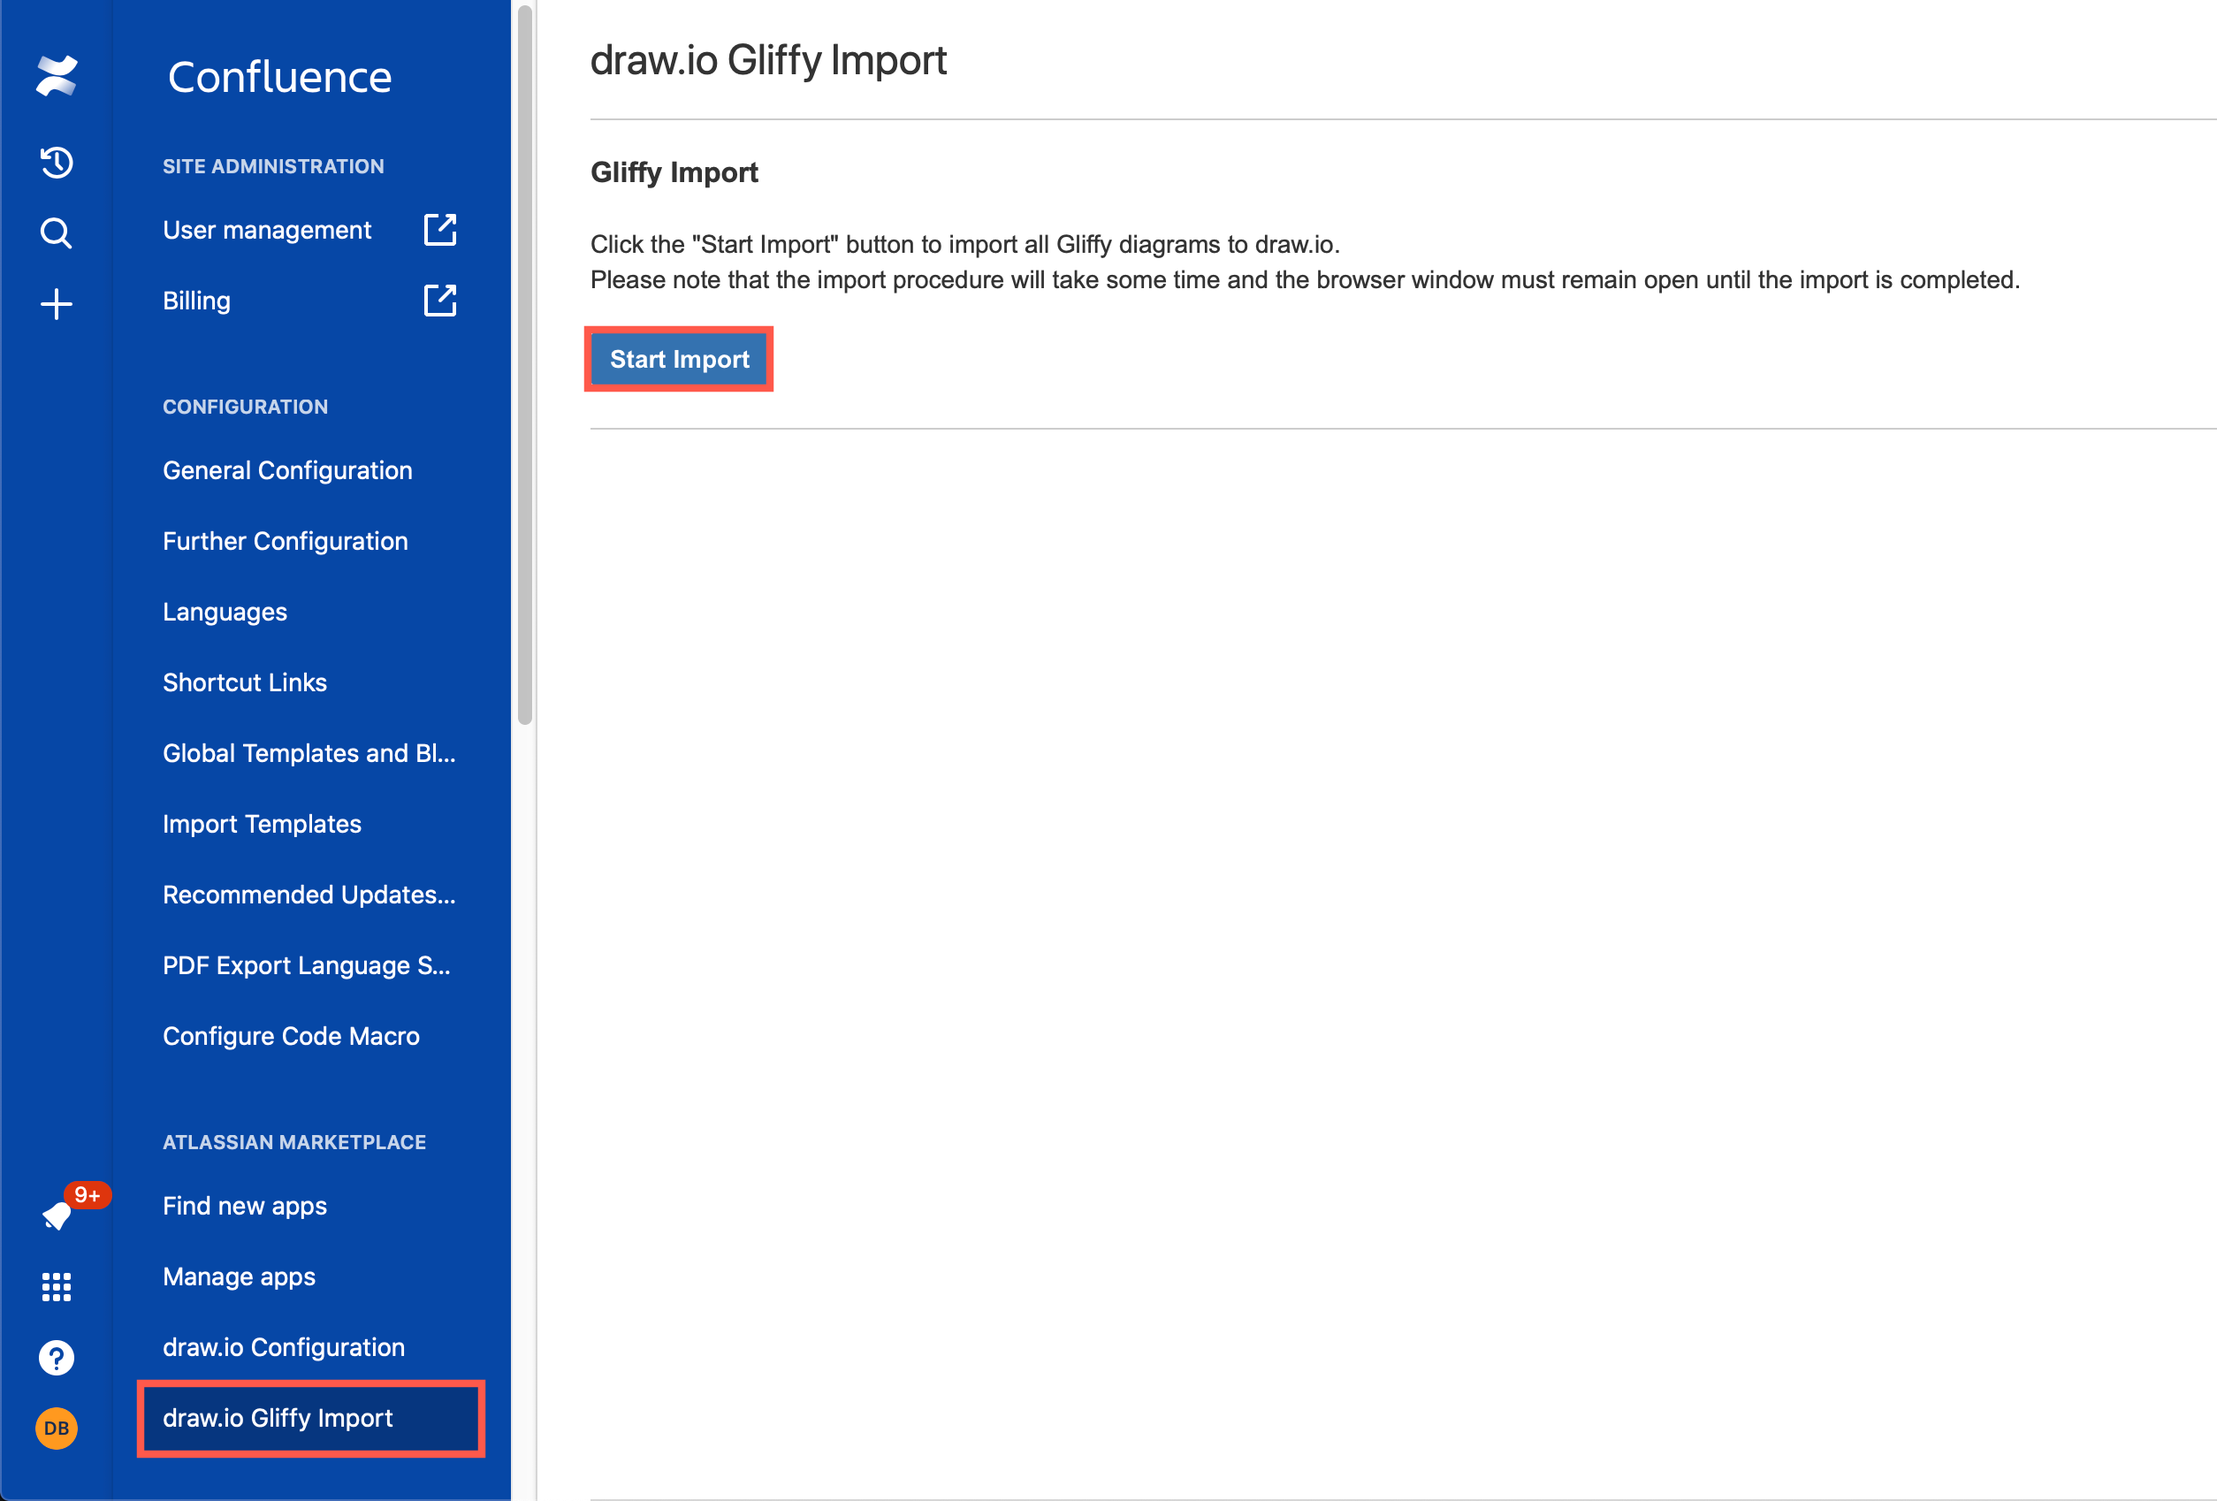
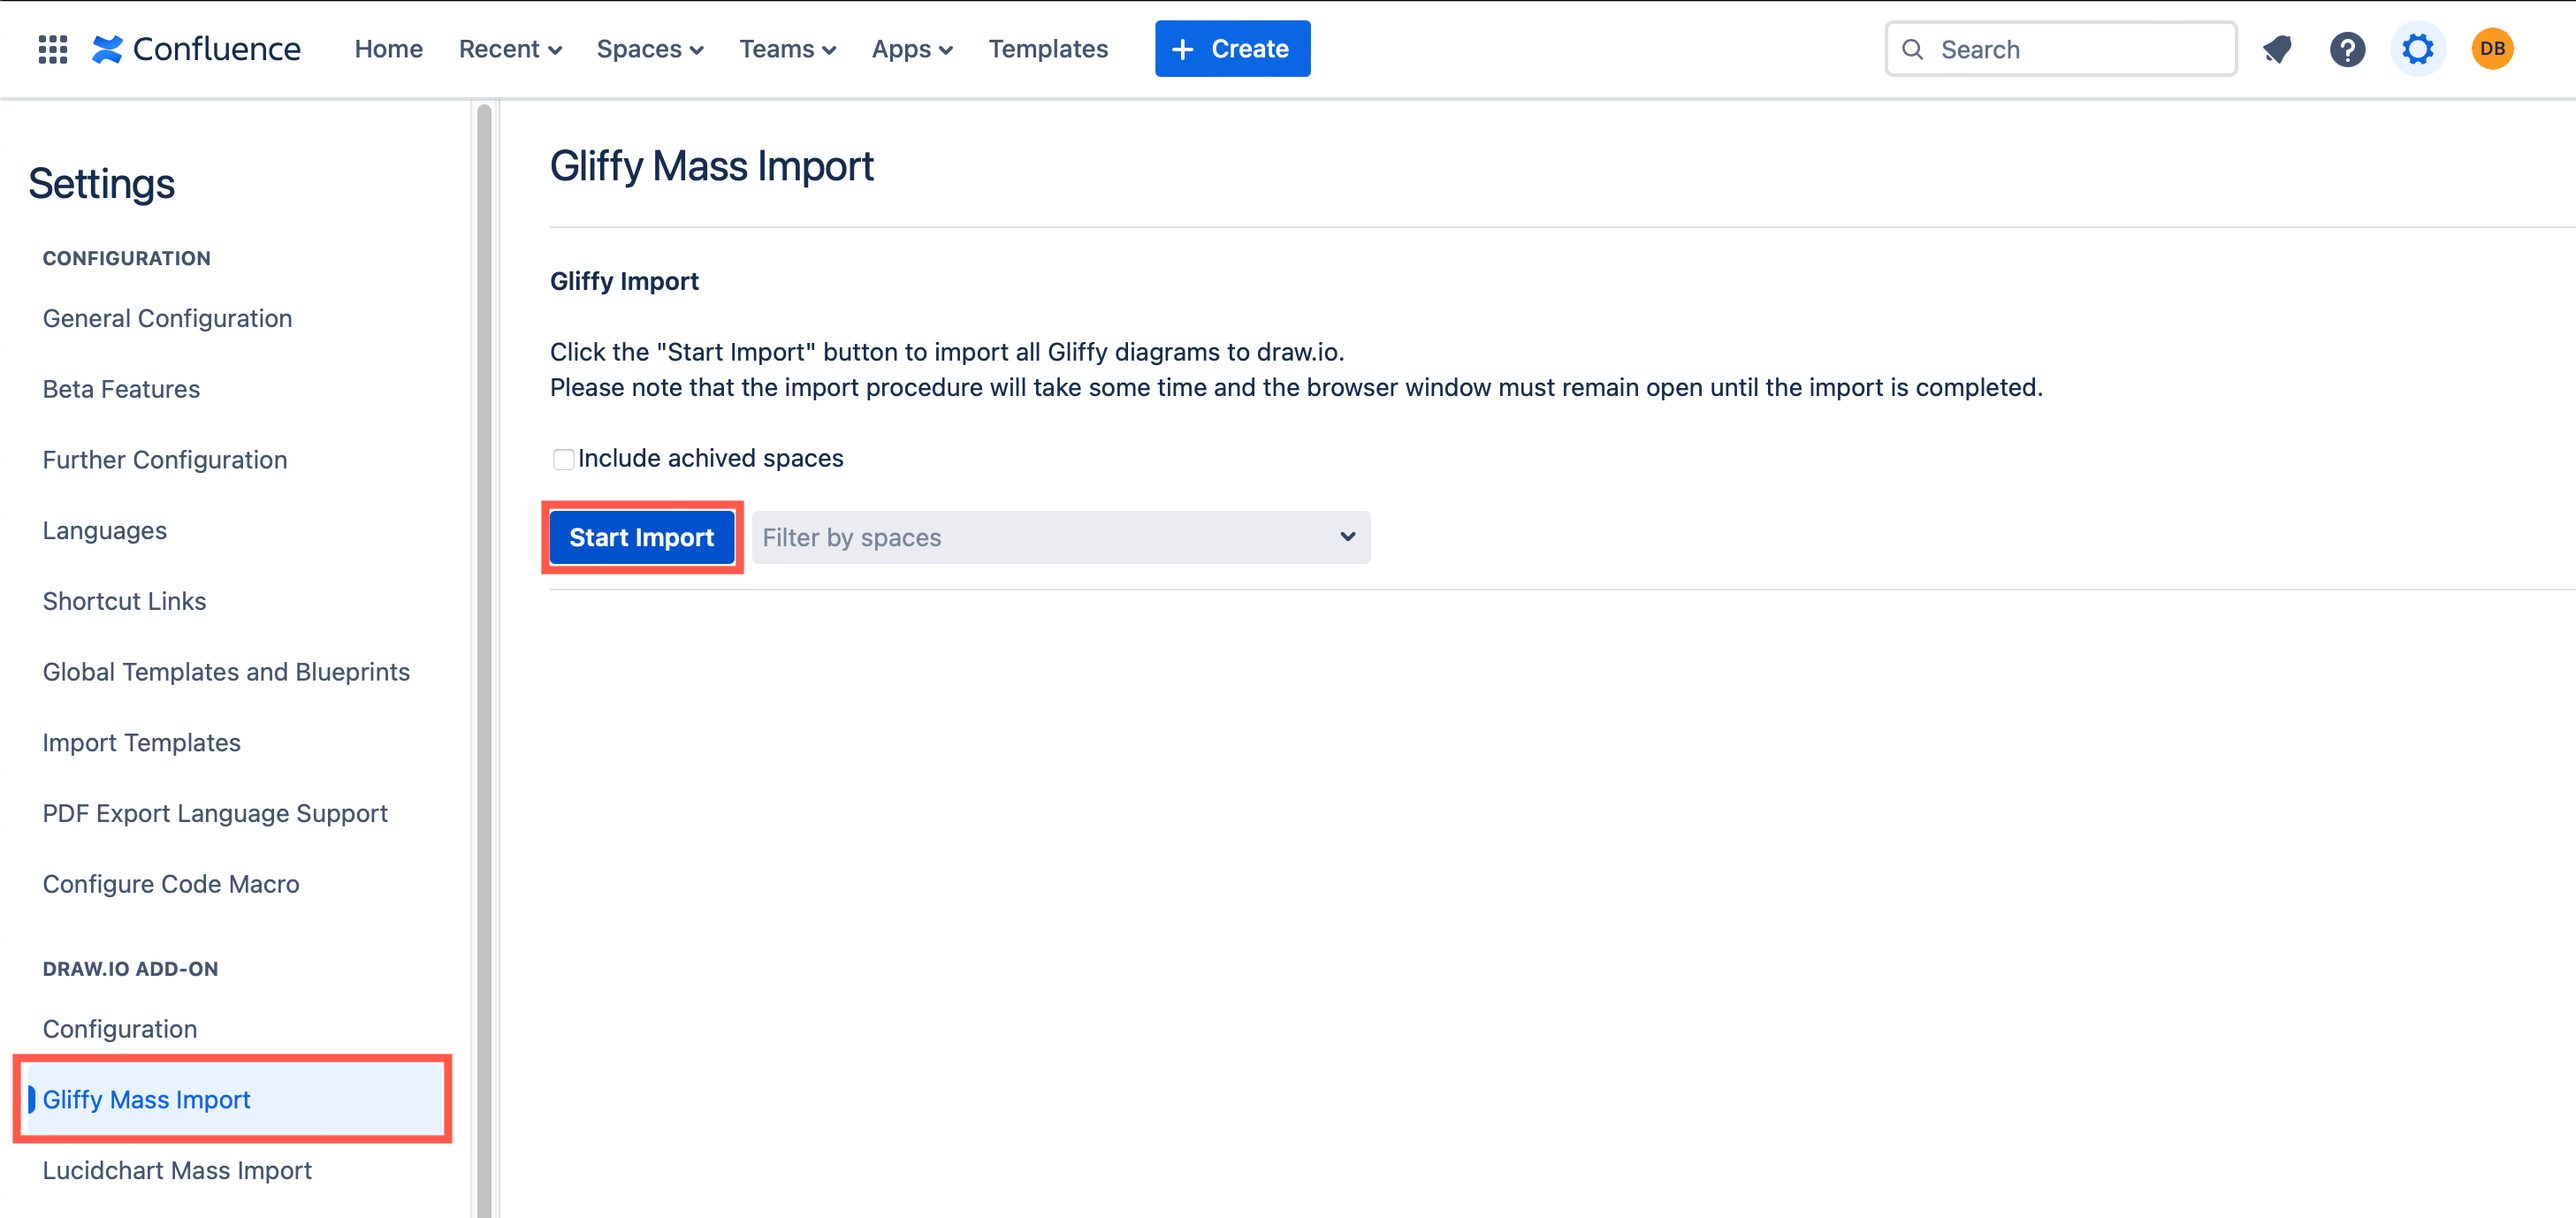
gliffy mass import in cloud updated

diff --git a/doc/faq/mass-import-gliffy-confluence-cloud.md b/doc/faq/mass-import-gliffy-confluence-cloud.md
@@ -7,11 +7,9 @@ categories: [Confluence Cloud, Gliffy, Import]
 
 As an administrator, you can convert all of the Gliffy diagrams in your Confluence Cloud instance into draw.io diagrams with one click.
 
-1. Go to the Confluence Settings in your Cloud instance.
-2. Select on _draw.io Gliffy Import_ in the left menu.
-3. Click on the _Start Import_ button and wait for the import to complete.
-
-<img src="/assets/img/blog/confluence-cloud-start-gliffy-import.png" style="width=100%;max-width:400px;height:auto;" alt="Start the Gliffy mass import to draw.io diagrams in Confluence Cloud">
+1. Go to the draw.io add-on > Gliffy Mass Import in your Cloud instance administration.
+2. Click _Start Import_ and wait for the import to complete. If you want to mass import diagrams in specific spaces, select them from the _Filter by spaces_ list.
+<br /><img src="/assets/img/blog/confluence-cloud-start-gliffy-import.png" style="width=100%;max-width:500px;height:auto;" alt="Start the Gliffy mass import to draw.io diagrams in Confluence Cloud">
 
 **Important**
 
@@ -22,9 +20,9 @@ As an administrator, you can convert all of the Gliffy diagrams in your Confluen
 
 ## Gliffy to draw.io conversion log
 
-You'll see a running log of the conversion. Copy this long once it is finished so you can check page and diagram content if errors occurred.
+You'll see a running log of the conversion. Click _Download_ to save the report once it is finished so you can check the page and diagram content if errors occurred.
 
-<img src="/assets/img/blog/confluence-cloud-gliffy-import-log.png" style="width=100%;max-width:400px;height:auto;" alt="Log of the Gliffy mass import to draw.io in Confluence Cloud">
+<img src="/assets/img/blog/confluence-cloud-gliffy-import-log.png" style="width=100%;max-width:500px;height:auto;" alt="Log of the Gliffy mass import to draw.io in Confluence Cloud">
 
 No data is lost in this conversion process - a new page version will be created where Gliffy macros are replaces with draw.io macros containing the converted diagram. The original Gliffy diagram files are still attached to their page and unchanged.
 
